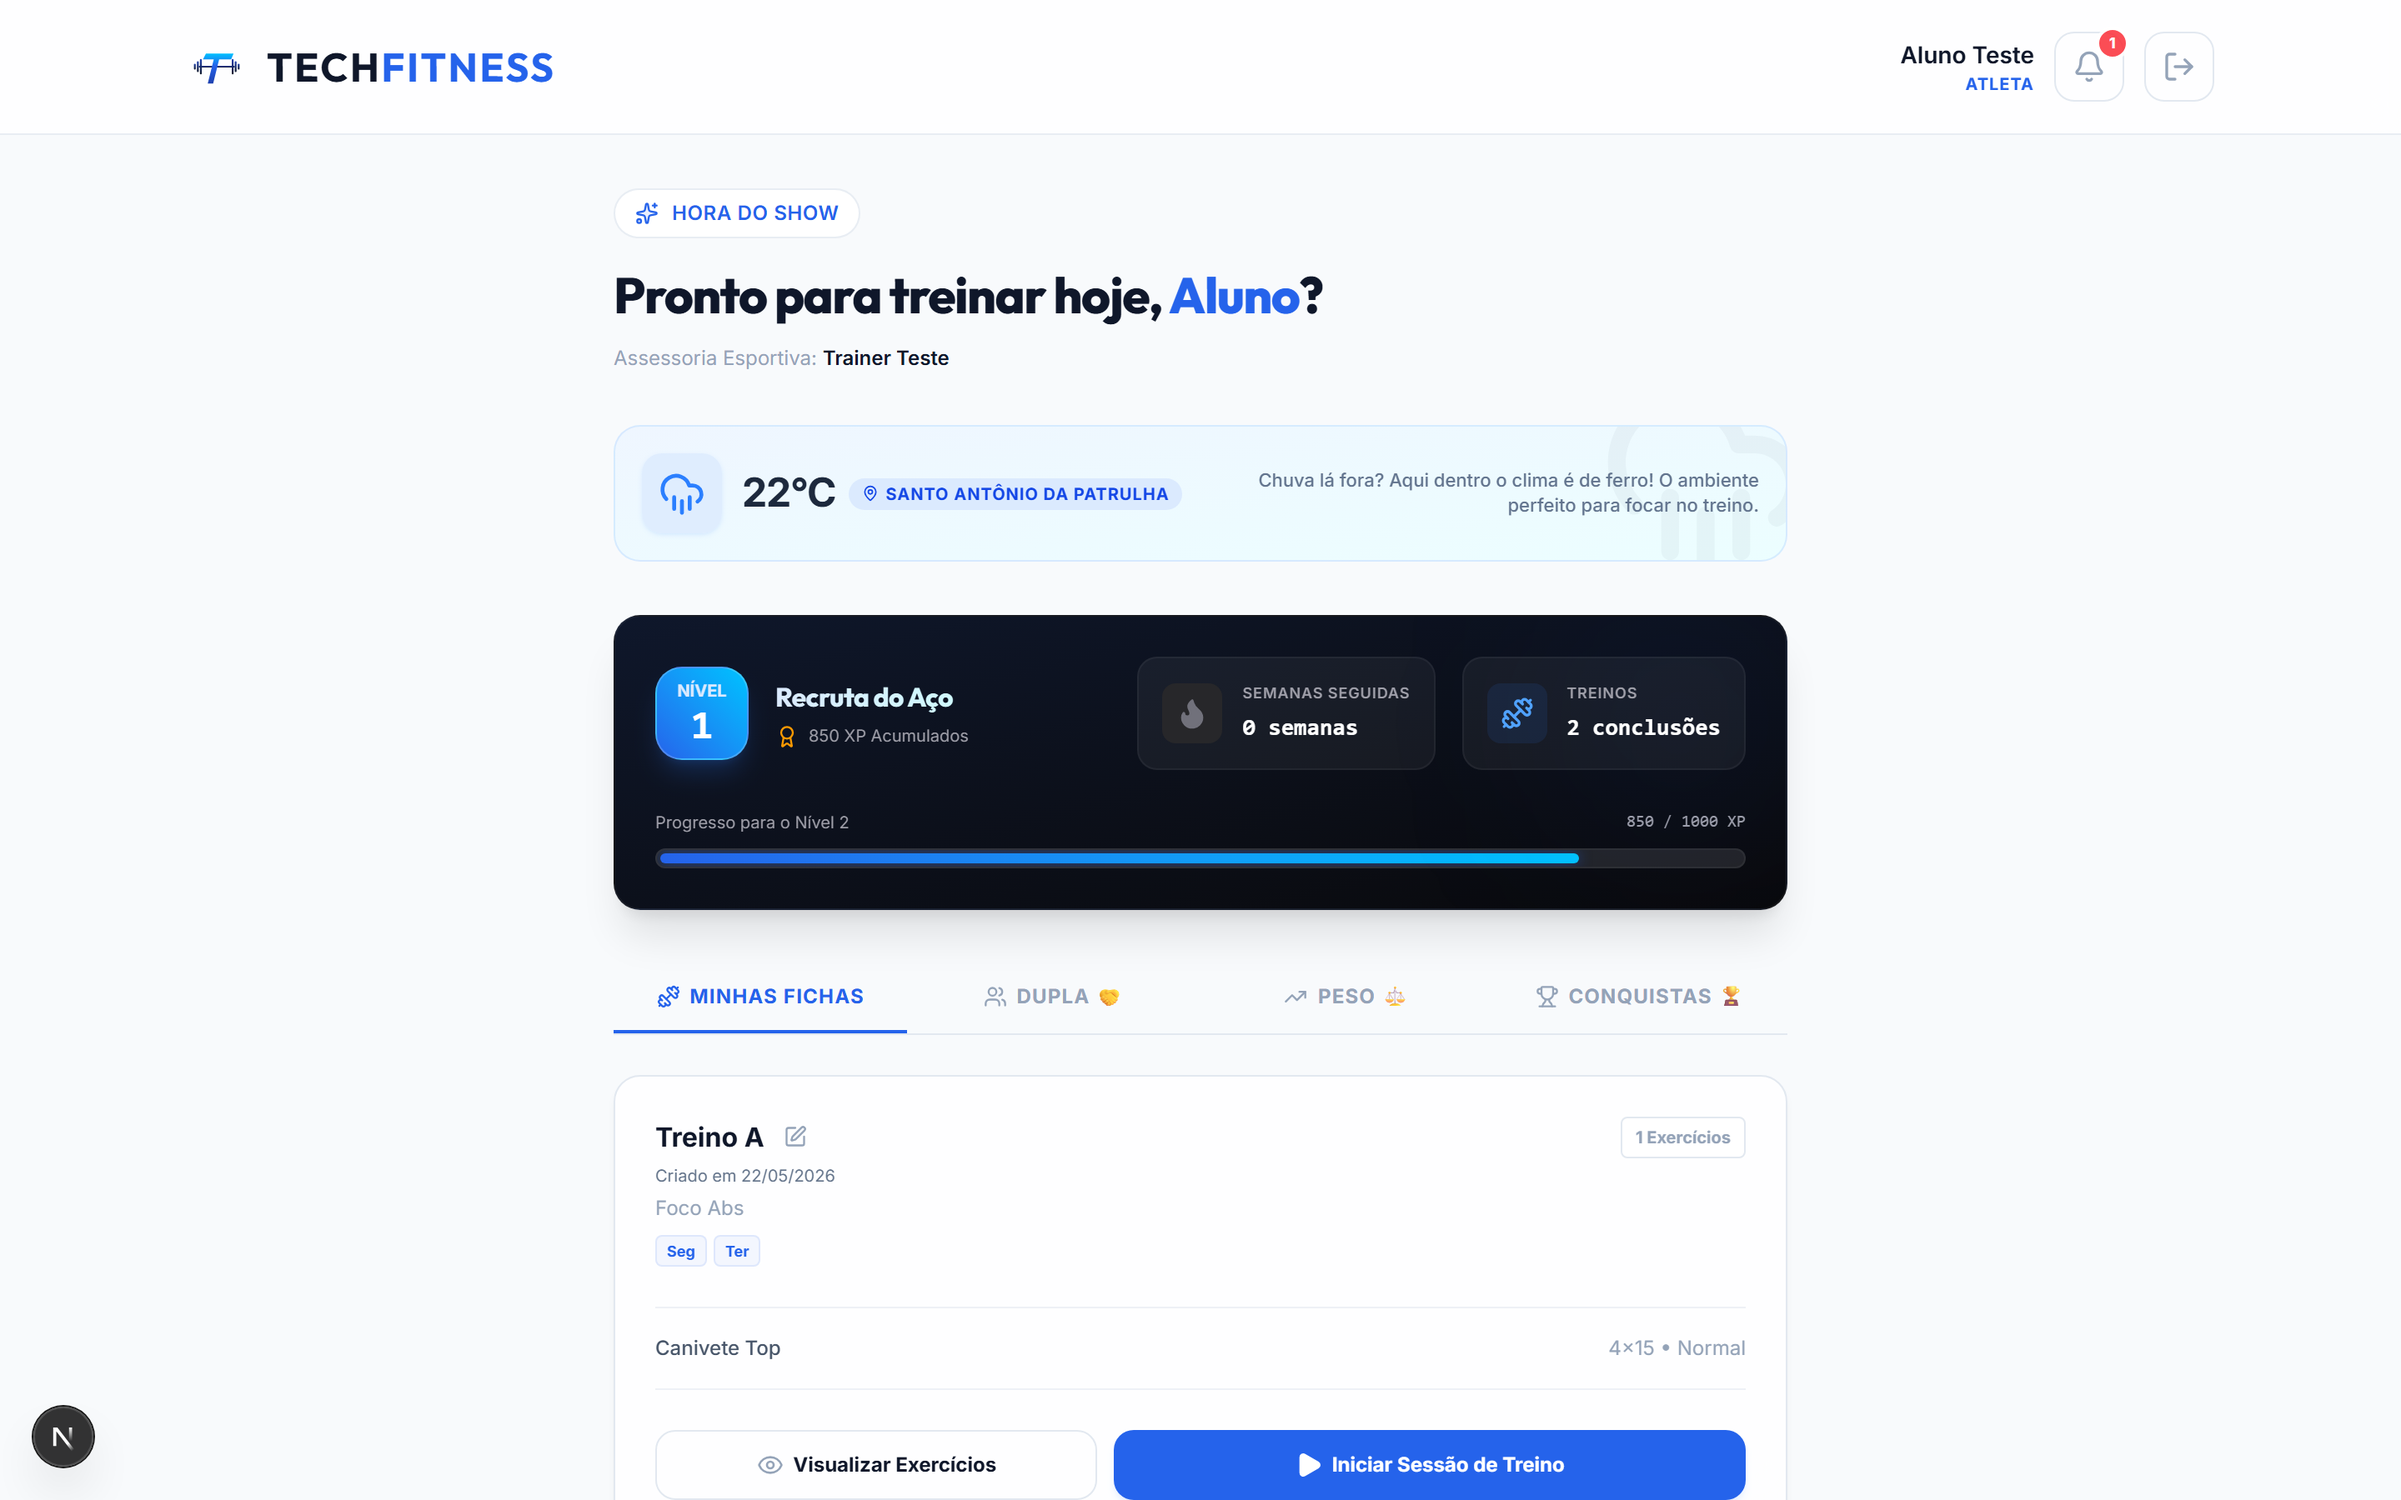
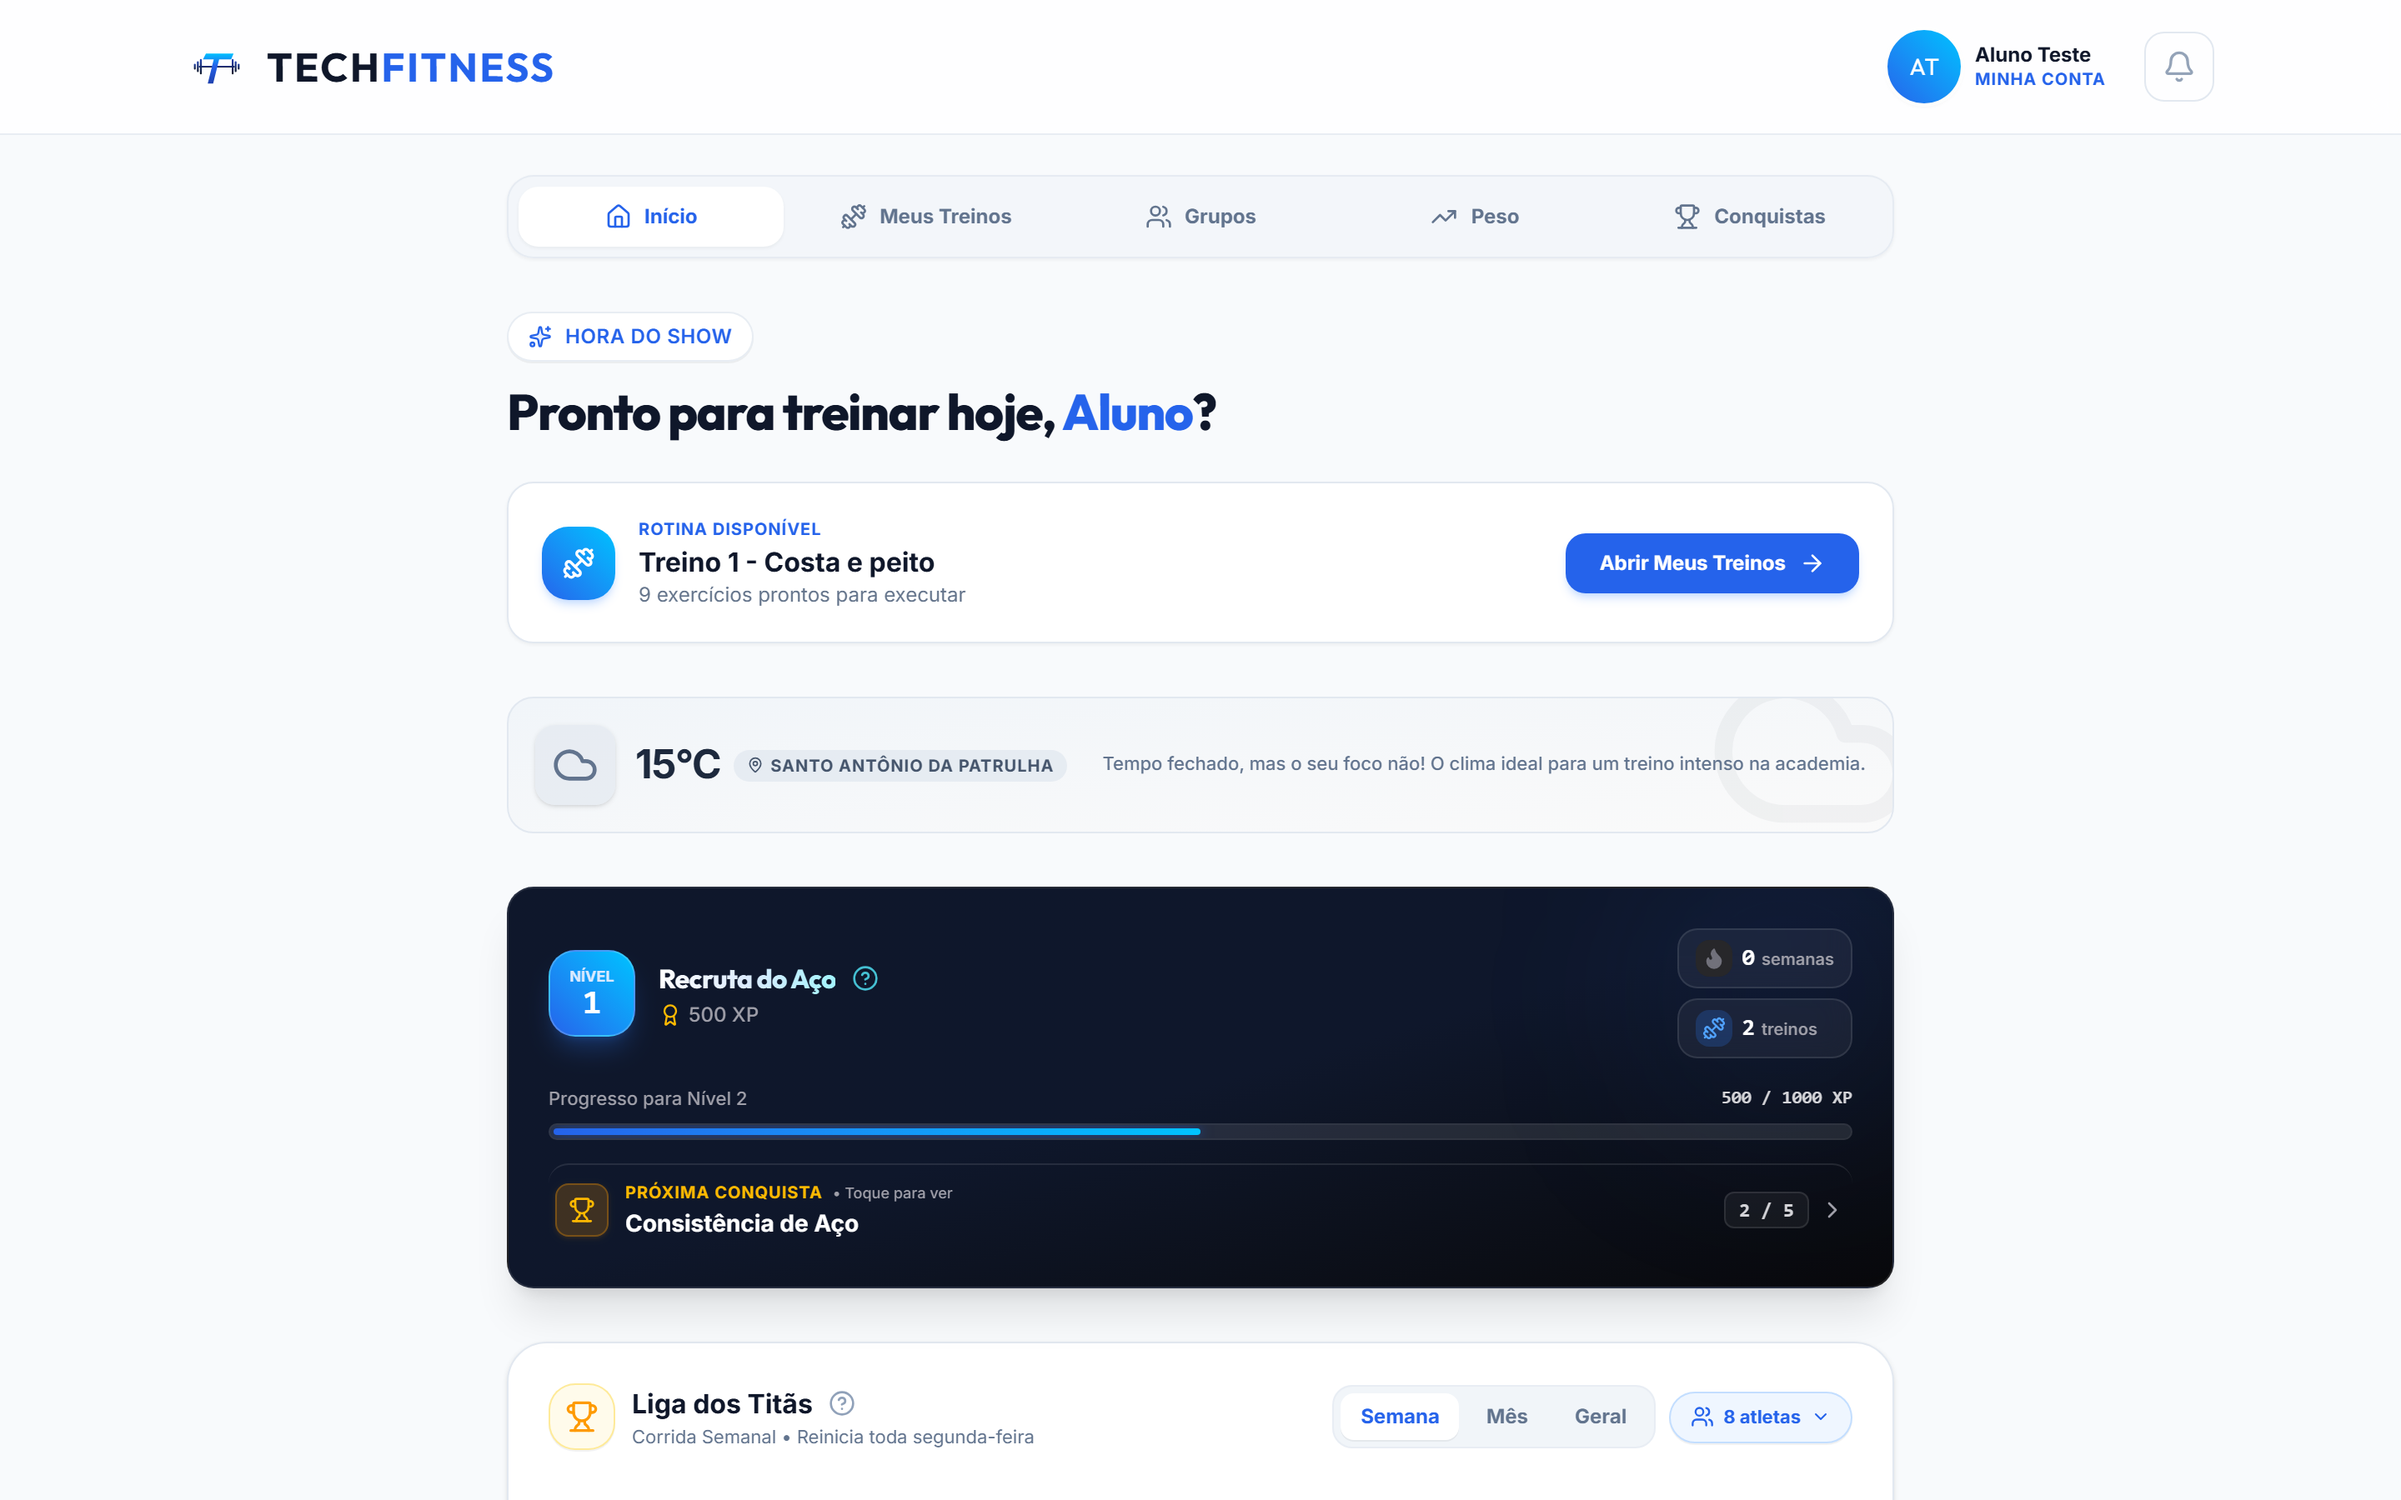
feat(portfolio): update TechFitness screenshots with RPG cockpit and trainer metrics

diff --git a/src/Projetos.jsx b/src/Projetos.jsx
@@ -24,10 +24,10 @@ const projectsData = [
     logoUrl: '/techfitness-logo.webp',
     icon: <Smartphone color="var(--ai-secondary)" />,
     screenshots: [
-      { url: '/techfitness-1.webp?v=v8', label: 'Landing Page & Apresentação SaaS' },
-      { url: '/techfitness-2.webp?v=v8', label: 'Portal de Login & Autenticação' },
-      { url: '/techfitness-3.webp?v=v8', label: 'Dashboard do Treinador (Prescrição & Alunos)' },
-      { url: '/techfitness-4.webp?v=v8', label: 'Dashboard do Aluno (Frequência & Esforço RPE)' }
+      { url: '/techfitness-1.webp?v=v9', label: 'Landing Page & Apresentação SaaS' },
+      { url: '/techfitness-2.webp?v=v9', label: 'Portal de Login & Autenticação' },
+      { url: '/techfitness-3.webp?v=v9', label: 'Dashboard do Treinador (Gestão de Alunos & Métricas)' },
+      { url: '/techfitness-4.webp?v=v9', label: 'Dashboard do Aluno (Cockpit RPG & Gamificação)' }
     ],
     description: {
       desafio: 'Academias, personais e assessorias enfrentam alta evasão por falta de engajamento contínuo, dificuldade no acompanhamento biométrico e ausência de percepção tangível de evolução física.',
